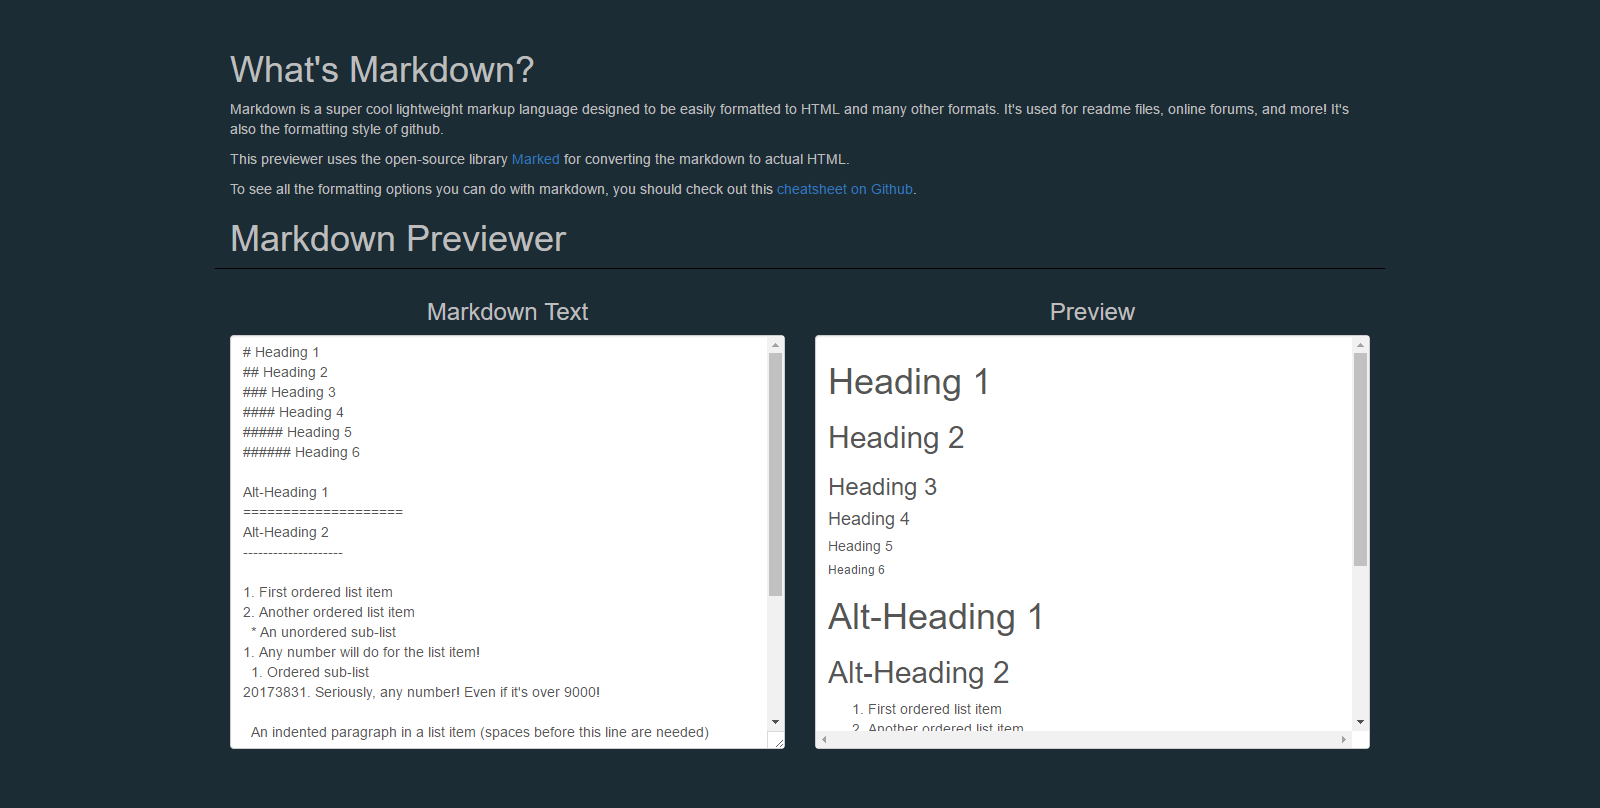
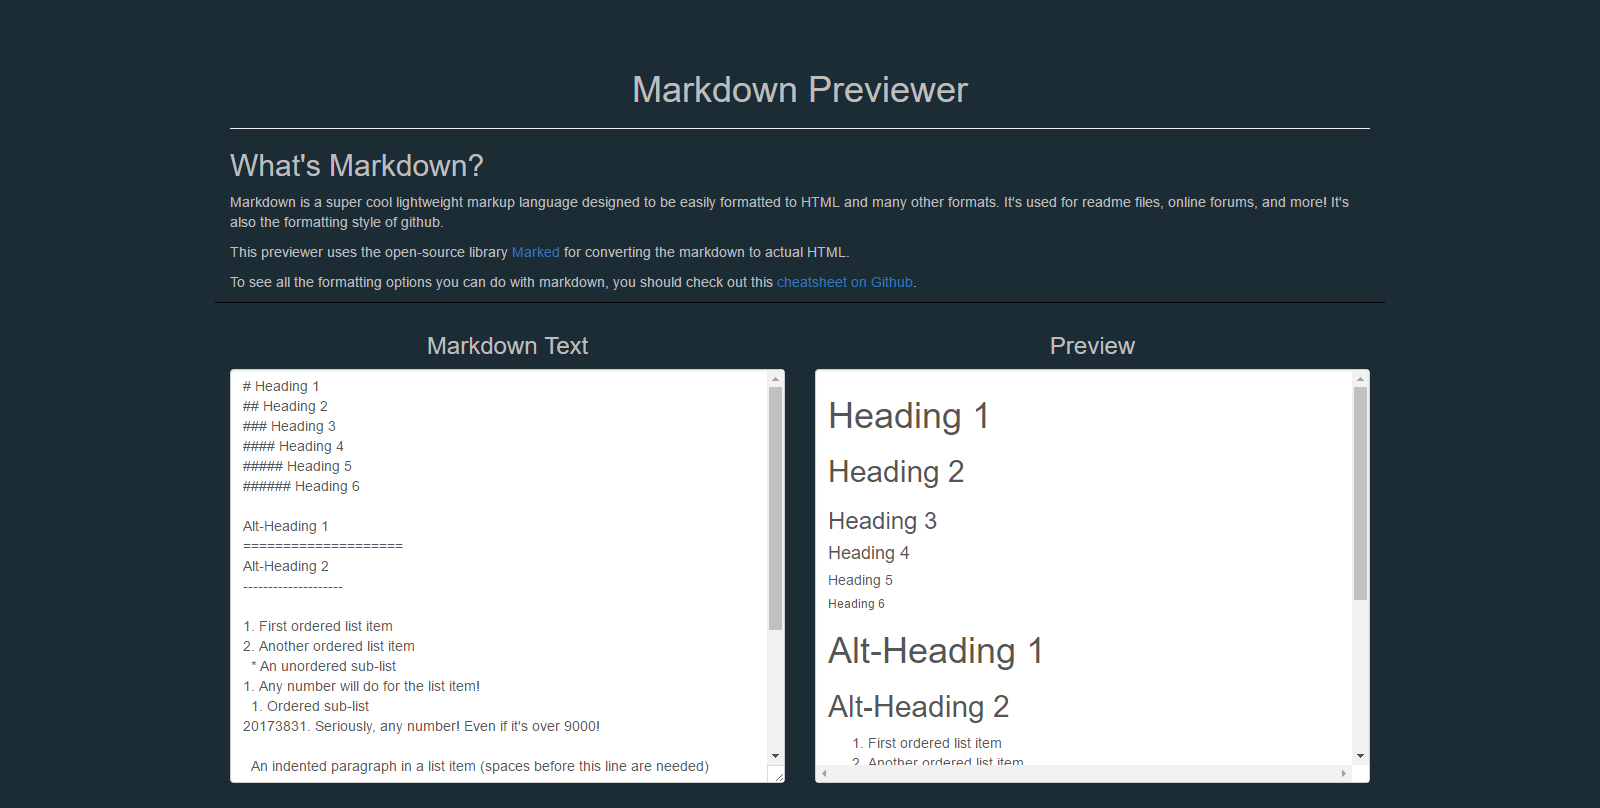
Tweak header of Markdown Previewer
Tiny adjustment for looks.

Changed region(s): [[0.125, 0.0619, 0.875, 0.9901], [0.8438, 0.7116, 0.875, 0.7426]]

diff --git a/markdown/index.html b/markdown/index.html
@@ -13,11 +13,13 @@
 </head>
 <body>
   <div class="container" id="info">
-    <h1>What's Markdown?</h1>
+    <div class="page-header center">
+      <h1>Markdown Previewer</h1>
+    </div>
+    <h2>What's Markdown?</h1>
     <p>Markdown is a super cool lightweight markup language designed to be easily formatted to HTML and many other formats. It's used for readme files, online forums, and more! It's also the formatting style of github.</p>
     <p>This previewer uses the open-source library <a href="https://github.com/chjj/marked">Marked</a> for converting the markdown to actual HTML.</p>
     <p>To see all the formatting options you can do with markdown, you should check out this <a href="https://github.com/adam-p/markdown-here/wiki/Markdown-Cheatsheet">cheatsheet on Github</a>.</p>
-    <h1>Markdown Previewer</h1>
   </div>
   <div class="container" id="container"></div>
 
